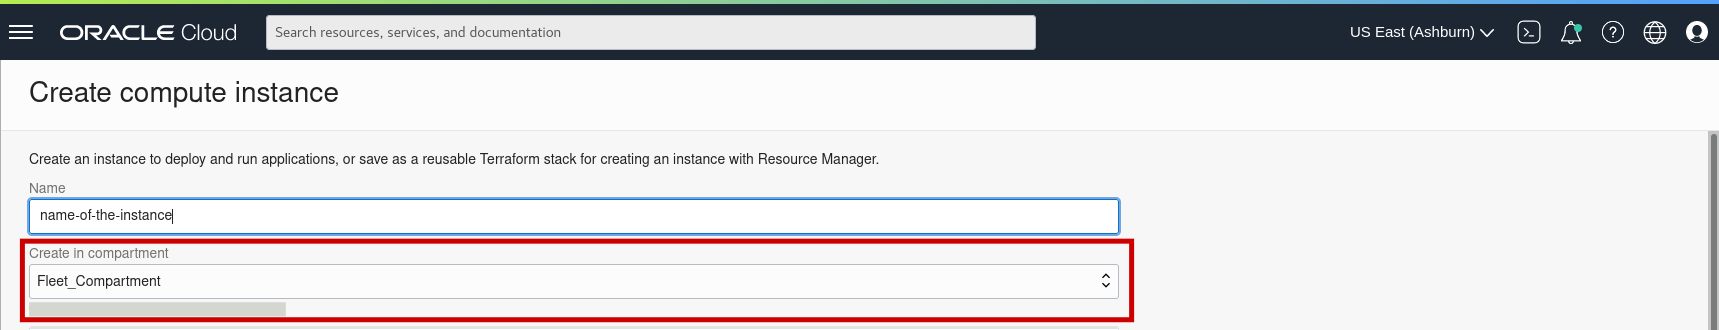
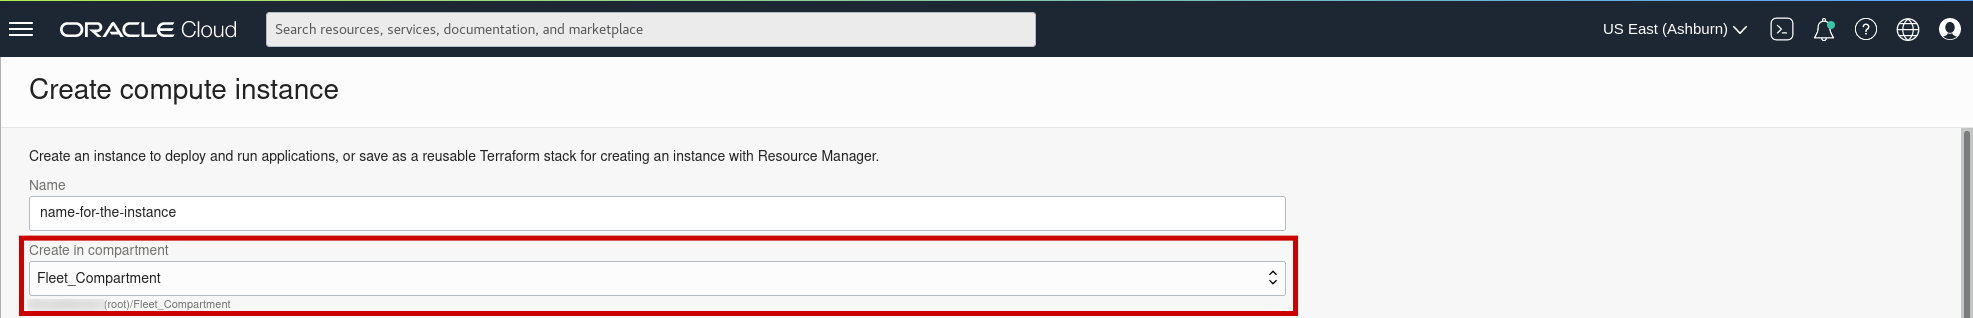
corrected 'select correct compartment for the instance' screenshot and note

diff --git a/oci-library/oci-hol/java-management/deploy-a-java-application/deploy-a-java-application.md b/oci-library/oci-hol/java-management/deploy-a-java-application/deploy-a-java-application.md
@@ -43,7 +43,7 @@ In this workshop, you will:
     * **Name**: `<name-for-the-instance>`
     * **Create in compartment**: `<your-compartment>`
 
-     > **Note:** It is important for Compute Instance to be created in the Compartment with correct set of Policies. So, select the `Fleet_Compartment` Compartment if you selected Onboarding Wizard option in Lab 1, otherwise select the Compartment that you have created.
+      It is important for Compute Instance to be created in a Compartment with correct set of Policies. So, select the `Fleet_Compartment` Compartment if you selected Onboarding Wizard option in Lab 1, otherwise select the Compartment that you have created.
      
       ![image of selecting correct compartment for the Compute Instance](/../images/select-correct-compartment.png)
 

diff --git a/oci-library/oci-hol/java-management-lifecycle-management/introduction/introduction.md b/oci-library/oci-hol/java-management-lifecycle-management/introduction/introduction.md
@@ -15,7 +15,7 @@ Java Management Service (JMS) is a reporting and management infrastructure integ
 
 In order to perform these LCM operations almost no or minor configuration changes are required. This workshop will walk you through the steps to enable LCM operations in OCI and non-OCI Hosts. Next, you will learn how to remove a Java Runtime using OCI console and cancel or view a work request. You will also get to view status and logs related to delete work requests. Finally, the workshop will show you how to view and monitor Lifecycle Management requests.
 
-Estimated Time: 60 minutes
+_Estimated Time:_ 60 minutes
 
 ### Objectives
 

diff --git a/oci-library/oci-hol/java-management-oci-services-integration/introduction/introduction.md b/oci-library/oci-hol/java-management-oci-services-integration/introduction/introduction.md
@@ -32,7 +32,7 @@ This workshop is a follow up workshop to the [Manage Java Runtimes with Java Man
 This workshop will walk you through the process of setting up and using various Oracle Cloud Infrastructure (OCI) services for use with Java Management Service (JMS) on OCI. It will first walk you through the set up and use of the OCI Command Line Interface (CLI) to access JMS APIs. It will then walk you through the set up and use of JMS Software Development Kits (SDKs) and Postman to use the JMS APIs.
 
 
-Estimated Time: 45 minutes
+_Estimated Time:_ 45 minutes
 
 ### Objectives
 * Access REST API via OCI CLI
